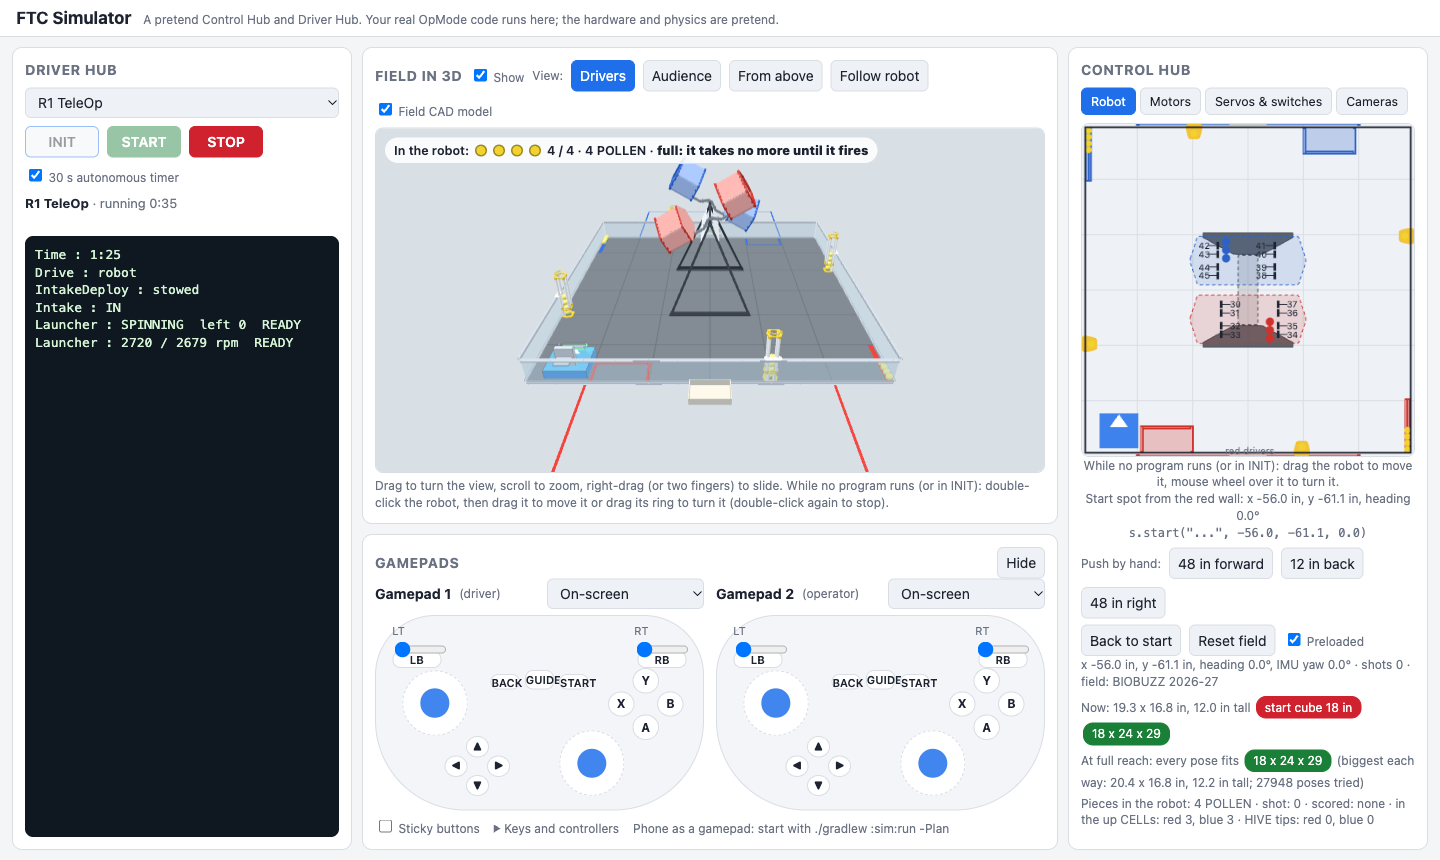
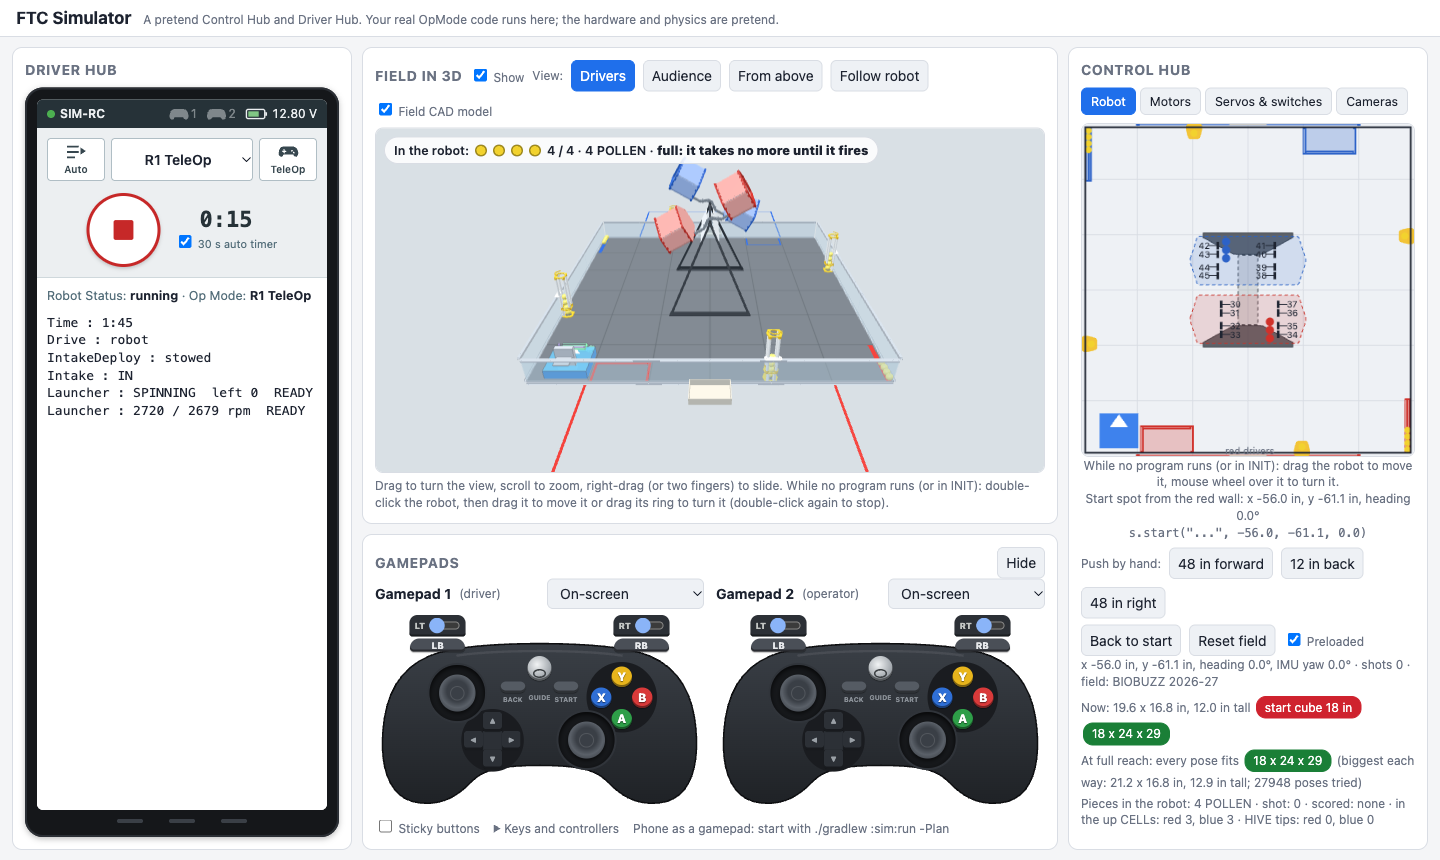
Simulator page: Driver Hub like the Driver Station app, gamepads like real controllers
- Driver Hub: a handheld frame; top bar with link, gamepad 1/2 lights and robot battery; Auto and
  TeleOp buttons open lists; one big INIT / play / stop button; match time; telemetry below.
- Gamepads: an SVG controller body (Xbox 360 / Logitech layout), coloured A/B/X/Y, D-pad cross,
  bumpers, triggers, stick wells; labels scale with the pad (container units).
- No sideways scroll on a phone.
- README picture updated.

Changed region(s): [[0.0, 0.0907, 0.7188, 0.9977], [0.7812, 0.907, 0.9375, 0.9372]]

diff --git a/sim/src/test/resources/sim/index.html b/sim/src/test/resources/sim/index.html
@@ -22,7 +22,8 @@
   header h1 { font-size: 17px; margin: 0; }
   header .note { color: var(--muted); font-size: 12px; }
   /* Narrow screens: one column you scroll. */
-  main { display: grid; grid-template-columns: 1fr; gap: 10px; padding: 10px 12px; }
+  main { display: grid; grid-template-columns: minmax(0, 1fr); gap: 10px; padding: 10px 12px; }
+  main > section { min-width: 0; }
   /* A laptop or bigger: everything on one screen, no page scroll. The 3D field in the middle, the gamepads under
      it, the Driver Hub on the left, the Control Hub (panels shown or hidden by its buttons) on the right. */
   @media (min-width: 1100px) and (min-height: 640px) {
@@ -30,7 +31,8 @@
     body:not(.phone) main { flex: 1; min-height: 0; grid-template-columns: minmax(280px, 340px) minmax(420px, 1fr) minmax(290px, 360px);
       grid-template-rows: minmax(0, 1fr) auto; grid-template-areas: "ds view hub" "ds pads hub"; }
     body:not(.phone) #dsSection { grid-area: ds; display: flex; flex-direction: column; min-height: 0; }
-    body:not(.phone) #screen { flex: 1; height: auto; min-height: 120px; }
+    body:not(.phone) .dh, body:not(.phone) .dh-screen, body:not(.phone) .dh-tele { flex: 1; min-height: 0; display: flex; flex-direction: column; }
+    body:not(.phone) #screen { flex: 1; height: auto; min-height: 90px; }
     body:not(.phone) #view3dSection { grid-area: view; display: flex; flex-direction: column; min-height: 0; }
     body:not(.phone) #stage { flex: 1; height: auto; min-height: 200px; }
     body:not(.phone) #padsSection { grid-area: pads; }
@@ -50,32 +52,81 @@
   button { cursor: pointer; }
   button:disabled { opacity: .45; cursor: default; }
   .row { display: flex; gap: 8px; align-items: center; flex-wrap: wrap; }
-  .ds-buttons button { min-width: 74px; font-weight: 600; }
-  #initBtn { border-color: var(--accent); }
-  #startBtn { background: var(--go); color: #fff; border-color: var(--go); }
-  #stopBtn { background: var(--stop); color: #fff; border-color: var(--stop); }
-  #opmode { flex: 1; min-width: 0; }
-  .status { margin: 8px 0; color: var(--muted); font-size: 13px; }
-  .status b { color: var(--ink); }
-  /* The Driver Hub telemetry: about 52 characters wide, like the real screen. */
-  #screen { background: var(--screen); color: var(--screen-ink); font: 13px/1.35 ui-monospace, "SF Mono", Menlo, Consolas, monospace;
-            border-radius: 8px; padding: 10px; height: 380px; overflow: auto; white-space: pre-wrap; word-break: break-word; width: 100%; max-width: 54ch; }
+  /* The Driver Hub: a black handheld with the Driver Station app on its screen. */
+  .dh { background: #15171a; border-radius: 18px; padding: 12px 12px 14px; box-shadow: inset 0 0 0 2px #2b2f35, 0 2px 6px rgba(0,0,0,.25); }
+  .dh-screen { background: #eceff1; color: #1d2330; border-radius: 6px; overflow: hidden; display: flex; flex-direction: column; }
+  .dh-top { display: flex; align-items: center; gap: 10px; background: #263238; color: #eceff1; padding: 6px 10px; font-size: 12px; }
+  .dh-top .net { flex: 1; min-width: 0; white-space: nowrap; overflow: hidden; text-overflow: ellipsis; }
+  .dh-top .net b { font-weight: 600; }
+  .dh-dot { display: inline-block; width: 8px; height: 8px; border-radius: 50%; background: #9e9e9e; margin-right: 5px; vertical-align: 0; }
+  .dh-dot.ok { background: #4caf50; }
+  .dh-batt { display: inline-flex; align-items: center; gap: 4px; font-variant-numeric: tabular-nums; }
+  .dh-batt svg { width: 22px; height: 11px; }
+  .dh-user { display: inline-flex; align-items: center; gap: 2px; opacity: .45; }
+  .dh-user.on { opacity: 1; color: #81c784; }
+  .dh-user svg { width: 20px; height: 13px; }
+  .dh-op { display: flex; align-items: stretch; gap: 6px; padding: 10px 10px 6px; position: relative; }
+  .dh-kind { display: flex; flex-direction: column; align-items: center; justify-content: center; gap: 1px; width: 58px; flex: none;
+    background: #fff; color: #37474f; border: 1px solid #b0bec5; border-radius: 4px; font-size: 10px; font-weight: 600; padding: 4px 2px; }
+  .dh-kind svg { width: 22px; height: 18px; }
+  .dh-kind:hover { background: #e3f2fd; }
+  #opmode { flex: 1; min-width: 0; background: #fff; color: #1d2330; border: 1px solid #b0bec5; border-radius: 4px; font-weight: 600; text-align: center; }
+  .dh-menu { position: absolute; z-index: 5; top: 100%; left: 10px; right: 10px; background: #fff; color: #1d2330; border: 1px solid #90a4ae;
+    border-radius: 4px; box-shadow: 0 6px 18px rgba(0,0,0,.25); max-height: 260px; overflow: auto; }
+  .dh-menu h4 { margin: 0; padding: 6px 10px; background: #263238; color: #eceff1; font-size: 12px; }
+  .dh-menu button { display: block; width: 100%; text-align: left; border: 0; border-bottom: 1px solid #eceff1; border-radius: 0; background: #fff; color: #1d2330; padding: 8px 10px; }
+  .dh-menu button:hover, .dh-menu button:focus-visible { background: #e3f2fd; }
+  .dh-menu .muted { padding: 8px 10px; }
+  .dh-run { display: flex; align-items: center; justify-content: center; gap: 14px; padding: 6px 10px 10px; }
+  .dh-big { width: 74px; height: 74px; border-radius: 50%; border: 3px solid #455a64; background: #fff; color: #263238; display: grid; place-items: center;
+    font-weight: 800; font-size: 17px; letter-spacing: .04em; padding: 0; box-shadow: 0 2px 4px rgba(0,0,0,.2); }
+  .dh-big svg { width: 34px; height: 34px; }
+  #startBtn { border-color: #2e7d32; color: #2e7d32; }
+  #stopBtn { border-color: #c62828; color: #c62828; }
+  .dh-big.small { width: 46px; height: 46px; border-width: 2px; font-size: 12px; }
+  .dh-big.small svg { width: 20px; height: 20px; }
+  .dh-big:hover { filter: brightness(.96); }
+  .dh-big[hidden] { display: none; }
+  .dh-timer { display: flex; flex-direction: column; align-items: center; gap: 2px; font-size: 11px; color: #546e7a; }
+  .dh-timer .t { font: 700 22px/1 ui-monospace, "SF Mono", Menlo, Consolas, monospace; color: #263238; font-variant-numeric: tabular-nums; }
+  .dh-tele { background: #fff; border-top: 1px solid #cfd8dc; padding: 8px 10px; }
+  .status { margin: 0 0 4px; color: #546e7a; font-size: 12.5px; }
+  .status b { color: #1d2330; }
+  /* The telemetry: about 52 characters wide, like the real screen. */
+  #screen { background: #fff; color: #1d2330; font: 13px/1.35 ui-monospace, "SF Mono", Menlo, Consolas, monospace;
+            padding: 2px 0; height: 320px; overflow: auto; white-space: pre-wrap; word-break: break-word; width: 100%; max-width: 54ch; }
+  .dh-foot { display: flex; justify-content: center; gap: 26px; padding-top: 9px; }
+  .dh-foot i { width: 26px; height: 4px; border-radius: 2px; background: #3a3f46; }
   #error { display: none; margin-top: 8px; padding: 8px; border-radius: 6px; background: color-mix(in srgb, var(--stop) 15%, transparent);
            color: var(--stop); font: 12px/1.35 ui-monospace, Menlo, monospace; white-space: pre-wrap; }
   .pad { margin-bottom: 14px; }
   .pad .src { margin-left: auto; }
+  /* The on-screen gamepads: drawn like a real controller (Xbox 360 / Logitech layout, the buttons the SDK names). */
   .gp { position: relative; width: 100%; max-width: 420px; aspect-ratio: 420 / 250; margin: 6px auto 0; user-select: none; touch-action: none;
-        background: color-mix(in srgb, var(--btn) 70%, transparent); border: 1px solid var(--line); border-radius: 60px 60px 90px 90px; }
+        container-type: inline-size; }
+  .gp > svg.body { position: absolute; inset: 0; width: 100%; height: 100%; }
   .gp.off { opacity: .35; pointer-events: none; }
-  .b { position: absolute; display: grid; place-items: center; border: 1px solid var(--line); background: var(--panel); color: var(--ink);
-       font-size: 12px; font-weight: 700; border-radius: 50%; cursor: pointer; }
-  .b.on { background: var(--btn-down); color: var(--btn-ink-down); border-color: var(--btn-down); }
-  .b.wide { border-radius: 8px; font-size: 11px; font-weight: 600; }
-  .stick { position: absolute; width: 20%; aspect-ratio: 1; border-radius: 50%; border: 1px dashed var(--line); background: var(--panel); }
-  .knob { position: absolute; width: 46%; height: 46%; left: 27%; top: 27%; border-radius: 50%; background: var(--accent); opacity: .85; cursor: grab; }
-  .trig { position: absolute; width: 16%; top: 2%; }
-  .trig input { width: 100%; }
-  .trig span { font-size: 11px; color: var(--muted); }
+  .b { position: absolute; display: grid; place-items: center; border: 0; background: #3b4047; color: #e8eaed;
+       font-size: 3.2cqw; font-weight: 800; border-radius: 50%; cursor: pointer; line-height: 1; overflow: hidden;
+       box-shadow: inset 0 -2px 0 rgba(0,0,0,.45), 0 1px 1px rgba(0,0,0,.4); }
+  .b.on { filter: brightness(1.35); box-shadow: inset 0 2px 3px rgba(0,0,0,.5), 0 0 0 2px #fff; }
+  .b.face { color: #fff; font-size: 3.6cqw; text-shadow: 0 1px 1px rgba(0,0,0,.5); }
+  .b.k-a { background: #2e9e48; } .b.k-b { background: #d93a3a; } .b.k-x { background: #2f6fd6; } .b.k-y { background: #e8b51c; }
+  .b.dpad { border-radius: 3px; background: #2c3036; font-size: 2.4cqw; color: #9aa0a6; }
+  .b.bumper { border-radius: 3cqw 3cqw 1.2cqw 1.2cqw; background: #4a4f57; font-size: 2.8cqw; }
+  .b.small { border-radius: 2cqw; background: #555b63; font-size: 0; }
+  .b.guide { background: radial-gradient(circle at 40% 35%, #f1f3f4, #9aa0a6 70%); font-size: 0; }
+  .b.guide::after { content: ""; width: 42%; height: 42%; border-radius: 50%; border: .6cqw solid #3c4043; }
+  .stick { position: absolute; width: 17%; aspect-ratio: 1; border-radius: 50%; background: #16181b;
+           box-shadow: inset 0 2px 5px rgba(0,0,0,.8), 0 0 0 2px #30343a; }
+  .knob { position: absolute; width: 66%; height: 66%; left: 17%; top: 17%; border-radius: 50%; cursor: grab;
+          background: radial-gradient(circle at 50% 45%, #3a3f46 0 38%, #5a6068 60%, #2c3036 100%);
+          box-shadow: 0 2px 4px rgba(0,0,0,.6); }
+  .knob::after { content: ""; position: absolute; inset: 30%; border-radius: 50%; border: 1px solid rgba(255,255,255,.12); }
+  .trig { position: absolute; width: 17%; top: 0; height: 11%; display: flex; align-items: center; gap: 1.2cqw; background: #2c3036;
+          border-radius: 2.4cqw 2.4cqw .8cqw .8cqw; padding: 0 1.6cqw; box-shadow: inset 0 -2px 0 rgba(0,0,0,.4); }
+  .trig input { flex: 1; min-width: 0; height: 60%; margin: 0; accent-color: #8ab4f8; }
+  .trig span { font-size: 2.6cqw; font-weight: 800; color: #c4c7c5; }
   .keys { font-size: 12px; color: var(--muted); margin-top: 6px; }
   .keys code { background: var(--btn); padding: 0 4px; border-radius: 4px; }
   table { width: 100%; border-collapse: collapse; font-size: 12.5px; }
@@ -131,14 +182,35 @@
 <main>
   <section id="dsSection">
     <h2>Driver Hub</h2>
-    <div class="row"><select id="opmode" aria-label="OpMode"></select></div>
-    <div class="row ds-buttons" style="margin-top:8px">
-      <button id="initBtn">INIT</button><button id="startBtn">START</button><button id="stopBtn">STOP</button>
-      <label class="muted"><input type="checkbox" id="autoTimer" checked> 30 s autonomous timer</label>
+    <div class="dh">
+    <div class="dh-screen">
+      <div class="dh-top">
+        <span class="net" title="Network: the pretend Robot Controller"><span class="dh-dot" id="dhLink"></span><b>SIM-RC</b></span>
+        <span class="dh-user" id="dhUser1" title="Gamepad 1 (lit while it is used)"><svg viewBox="0 0 24 16" aria-hidden="true"><path fill="currentColor" d="M6 2h12c3 0 5 3 5.6 7.5.4 3-1 5.5-3.2 5.5-1.6 0-2.4-1.4-3.4-3H7c-1 1.6-1.8 3-3.4 3C1.4 15 0 12.5.4 9.5 1 5 3 2 6 2z"/></svg>1</span>
+        <span class="dh-user" id="dhUser2" title="Gamepad 2 (lit while it is used)"><svg viewBox="0 0 24 16" aria-hidden="true"><path fill="currentColor" d="M6 2h12c3 0 5 3 5.6 7.5.4 3-1 5.5-3.2 5.5-1.6 0-2.4-1.4-3.4-3H7c-1 1.6-1.8 3-3.4 3C1.4 15 0 12.5.4 9.5 1 5 3 2 6 2z"/></svg>2</span>
+        <span class="dh-batt" title="Robot battery"><svg viewBox="0 0 24 12" aria-hidden="true"><rect x="1" y="1" width="20" height="10" rx="2" fill="none" stroke="currentColor" stroke-width="1.5"/><rect x="21.5" y="4" width="2" height="4" rx=".5" fill="currentColor"/><rect id="dhBattFill" x="3" y="3" width="16" height="6" rx="1" fill="#81c784"/></svg><span id="dhBatt">--</span></span>
+      </div>
+      <div class="dh-op">
+        <button class="dh-kind" data-kind="Autonomous" aria-haspopup="true" title="Choose an autonomous"><svg viewBox="0 0 24 20" aria-hidden="true"><path fill="currentColor" d="M2 3h13v2H2zm0 6h13v2H2zm0 6h9v2H2zm15-2 6-4-6-4z"/></svg>Auto</button>
+        <select id="opmode" aria-label="OpMode"></select>
+        <button class="dh-kind" data-kind="TeleOp" aria-haspopup="true" title="Choose a TeleOp"><svg viewBox="0 0 24 20" aria-hidden="true"><path fill="currentColor" d="M6 4h12c3 0 4.8 2.6 5.4 6.5.3 2.6-.9 4.8-2.8 4.8-1.4 0-2.1-1.2-3-2.6H7.4c-.9 1.4-1.6 2.6-3 2.6C2.5 15.3 1.3 13.1 1.6 10.5 2.2 6.6 4 4 6 4zm1 3v1.5H5.5V10H7v1.5h1.5V10H10V8.5H8.5V7zm9.5.5a1 1 0 1 0 0 2 1 1 0 0 0 0-2zm2 2a1 1 0 1 0 0 2 1 1 0 0 0 0-2z"/></svg>TeleOp</button>
+        <div class="dh-menu" id="dhMenu" hidden></div>
+      </div>
+      <div class="dh-run">
+        <button id="initBtn" class="dh-big" title="INIT the chosen OpMode">INIT</button>
+        <button id="startBtn" class="dh-big" title="START" aria-label="START" hidden><svg viewBox="0 0 24 24" aria-hidden="true"><path fill="currentColor" d="M7 4v16l13-8z"/></svg></button>
+        <button id="stopBtn" class="dh-big" title="STOP" aria-label="STOP" hidden><svg viewBox="0 0 24 24" aria-hidden="true"><rect x="5" y="5" width="14" height="14" rx="1.5" fill="currentColor"/></svg></button>
+        <div class="dh-timer"><span class="t" id="dhTime">0:00</span>
+          <label><input type="checkbox" id="autoTimer" checked> 30 s auto timer</label></div>
+      </div>
+      <div class="dh-tele">
+        <div class="status" id="status">No OpMode running.</div>
+        <div class="status" id="cmdNote" style="color:var(--stop)"></div>
+        <div id="screen" role="log" aria-label="Driver Hub telemetry"></div>
+      </div>
     </div>
-    <div class="status" id="status">No OpMode running.</div>
-    <div class="status" id="cmdNote" style="color:var(--stop)"></div>
-    <div id="screen" role="log" aria-label="Driver Hub telemetry"></div>
+    <div class="dh-foot" aria-hidden="true"><i></i><i></i><i></i></div>
+    </div>
     <div id="error"></div>
   </section>
 
@@ -261,20 +333,33 @@ if (phonePad) { source[1] = phonePad === "1" ? "screen" : "remote"; source[2] = 
 let sticky = false;
 
 // ---------------------------------------------------------------- on-screen gamepad
-// Positions in % of the gamepad box (420 x 250 drawing units).
+// Positions in % of the gamepad box (420 x 250 drawing units): [key, label, left, top, width, height, kind].
 const LAYOUT = [
-  ["lb", "LB", 5, 18, 15, 9, true], ["rb", "RB", 80, 18, 15, 9, true],
-  ["up", "\u25B2", 27.5, 62, 7, 11], ["left", "\u25C0", 21, 72, 7, 11], ["right", "\u25B6", 34, 72, 7, 11], ["down", "\u25BC", 27.5, 82, 7, 11],
-  ["y", "Y", 78.5, 27, 8, 13], ["x", "X", 71, 39, 8, 13], ["b", "B", 86, 39, 8, 13], ["a", "A", 78.5, 51, 8, 13],
-  ["back", "BACK", 35, 30, 9, 8, true], ["guide", "GUIDE", 45.5, 28, 9, 10, true], ["start", "START", 56, 30, 9, 8, true],
+  ["lb", "LB", 10.7, 12, 16.7, 6.8, "bumper"], ["rb", "RB", 72.6, 12, 16.7, 6.8, "bumper"],
+  ["up", "\u25B2", 32.9, 49.6, 5.7, 9.6, "dpad"], ["left", "\u25C0", 27.1, 59.2, 5.7, 9.6, "dpad"],
+  ["right", "\u25B6", 38.6, 59.2, 5.7, 9.6, "dpad"], ["down", "\u25BC", 32.9, 68.8, 5.7, 9.6, "dpad"],
+  ["y", "Y", 71.9, 26.4, 6.2, 10.4, "face"], ["x", "X", 65.7, 37.2, 6.2, 10.4, "face"],
+  ["b", "B", 78.1, 37.2, 6.2, 10.4, "face"], ["a", "A", 71.9, 48, 6.2, 10.4, "face"],
+  ["back", "BACK", 38.1, 34, 7.6, 5.6, "small"], ["guide", "GUIDE", 46.3, 21, 7.4, 12.4, "guide"], ["start", "START", 54.3, 34, 7.6, 5.6, "small"],
 ];
+// The controller's body (dark plastic, the two grips) and the D-pad's middle, in the same 420 x 250 units.
+const PAD_BODY = '<svg class="body" viewBox="0 0 420 250" preserveAspectRatio="none" aria-hidden="true">' +
+  '<defs><linearGradient id="padShade" x1="0" y1="0" x2="0" y2="1"><stop offset="0" stop-color="#3a3f46"/><stop offset="1" stop-color="#1f2226"/></linearGradient></defs>' +
+  '<path d="M100 44C150 34 270 34 320 44C372 52 400 82 408 132C416 186 406 236 362 240C330 243 312 228 296 212C282 198 262 192 210 192' +
+  'C158 192 138 198 124 212C108 228 90 243 58 240C14 236 4 186 12 132C20 82 48 52 100 44Z" fill="url(#padShade)" stroke="#0e0f11" stroke-width="2"/>' +
+  '<path d="M104 52C150 44 270 44 316 52" fill="none" stroke="rgba(255,255,255,.08)" stroke-width="3"/>' +
+  '<circle cx="150" cy="160" r="40" fill="#1a1c20"/><rect x="138" y="148" width="24" height="24" fill="#2c3036"/>' +
+  '<circle cx="315" cy="105" r="45" fill="#1a1c20"/>' +
+  '<g font-family="system-ui,sans-serif" font-size="8.5" font-weight="700" fill="#8a9097" text-anchor="middle">' +
+  '<text x="176" y="111">BACK</text><text x="244" y="111">START</text><text x="210" y="109">GUIDE</text></g>' +
+  '</svg>';
 // Keep getting this pointer's events even if it slides off the button (fails quietly if it cannot).
 function capture(el, e) { try { el.setPointerCapture(e.pointerId); } catch (err) { /* not a real pointer */ } }
 function buildPad(el, n) {
-  el.innerHTML = "";
-  for (const [key, label, x, y, w, h, wide] of LAYOUT) {
+  el.innerHTML = PAD_BODY;
+  for (const [key, label, x, y, w, h, kind] of LAYOUT) {
     const b = document.createElement("div");
-    b.className = "b" + (wide ? " wide" : "");
+    b.className = "b " + kind + " k-" + key;
     b.textContent = label;
     b.setAttribute("role", "button");
     b.setAttribute("aria-label", "Gamepad " + n + " " + key.toUpperCase());
@@ -293,7 +378,7 @@ function buildPad(el, n) {
     b.addEventListener("pointerup", up); b.addEventListener("pointercancel", up);
     el.appendChild(b);
   }
-  for (const [ax, ay, cx, cy, label] of [["lx","ly",18,45,"L"],["rx","ry",66,76,"R"]]) {
+  for (const [ax, ay, cx, cy, label] of [["lx","ly",25,40,"L"],["rx","ry",64.3,64,"R"]]) {
     const s = document.createElement("div");
     s.className = "stick"; s.title = label + " stick";
     Object.assign(s.style, { left: cx + "%", top: cy + "%", transform: "translate(-50%,-50%)" });
@@ -313,7 +398,7 @@ function buildPad(el, n) {
     s.dataset.ax = ax; s.dataset.ay = ay;
     el.appendChild(s);
   }
-  for (const [key, label, x] of [["lt","LT",5],["rt","RT",79]]) {
+  for (const [key, label, x] of [["lt","LT",10.5],["rt","RT",72.5]]) {
     const t = document.createElement("div"); t.className = "trig";
     t.style.left = x + "%";
     // tabindex -1: a trigger is pressed with the mouse or touch (keyboard users: Z and C).
@@ -335,7 +420,7 @@ function drawPad(el, n) {
   });
   el.querySelectorAll(".stick").forEach(s => {
     const k = s.firstChild;
-    k.style.transform = `translate(${p[s.dataset.ax] * 60}%, ${p[s.dataset.ay] * 60}%)`;
+    k.style.transform = `translate(${p[s.dataset.ax] * 25}%, ${p[s.dataset.ay] * 25}%)`;
   });
   el.querySelectorAll(".trig input").forEach(r => { if (document.activeElement !== r) r.value = p[r.dataset.key]; });
   el.classList.toggle("off", source[n] === "remote");
@@ -450,6 +535,7 @@ async function poll() {
     render(lastState);
   } catch (e) {
     $("#status").textContent = "The simulator is not running. Start it with ./gradlew :sim:run";
+    $("#dhLink").classList.remove("ok");
   }
 }
 setInterval(poll, 100);
@@ -484,13 +570,28 @@ function render(s) {
     window.lastNextCount = s.nextCount;
   }
   const running = s.phase === "INIT" || s.phase === "RUNNING";
-  $("#initBtn").disabled = running && sel.value === s.opmode;
-  $("#startBtn").disabled = s.phase !== "INIT";
-  $("#stopBtn").disabled = !running;
+  // Like the Driver Station app: one big button that is INIT, then START (play), then STOP; in INIT a
+  // small STOP too. A different OpMode chosen while one runs can still be INIT'd (small).
+  const other = running && sel.value !== s.opmode;
+  const big = !running ? "initBtn" : s.phase === "INIT" ? "startBtn" : "stopBtn";
+  const shown = { initBtn: !running || other, startBtn: s.phase === "INIT", stopBtn: running };
+  for (const id of ["initBtn", "startBtn", "stopBtn"]) {
+    const b = $("#" + id);
+    b.hidden = !shown[id];
+    b.classList.toggle("small", id !== big);
+  }
   const t = Math.floor(s.runSeconds);
+  $("#dhTime").textContent = running && s.phase === "RUNNING" ? Math.floor(t / 60) + ":" + String(t % 60).padStart(2, "0") : "0:00";
   $("#status").innerHTML = s.opmode
-    ? `<b>${escapeHtml(s.opmode)}</b> &middot; ${s.phase === "RUNNING" ? "running " + Math.floor(t / 60) + ":" + String(t % 60).padStart(2, "0") : s.phase.toLowerCase()}`
-    : "Choose an OpMode, then INIT.";
+    ? `Robot Status: <b>${s.phase === "RUNNING" ? "running" : s.phase.toLowerCase()}</b> &middot; Op Mode: <b>${escapeHtml(s.opmode)}</b>`
+    : "Robot Status: <b>stopped</b> &middot; choose an OpMode, then INIT.";
+  $("#dhLink").classList.add("ok");
+  $("#dhBatt").textContent = s.battery.toFixed(2) + " V";
+  const full = Math.max(0, Math.min(1, (s.battery - 11) / 2.5));
+  const fill = $("#dhBattFill");
+  fill.setAttribute("width", (16 * full).toFixed(1));
+  fill.setAttribute("fill", s.battery < 11.8 ? "#e57373" : s.battery < 12.3 ? "#ffd54f" : "#81c784");
+  for (const n of [1, 2]) $("#dhUser" + n).classList.toggle("on", padActive(n));
   const text = s.screen.join("\n");
   if ($("#screen").textContent !== text) $("#screen").textContent = text;   // only when it changed
   const err = $("#error");
@@ -510,6 +611,26 @@ function render(s) {
     : "Phone as a gamepad: start with ./gradlew :sim:run -Plan";
 }
 $("#initBtn").onclick = () => command({ action: "init", opmode: $("#opmode").value });
+// The Auto and TeleOp buttons open a list of that kind, like the Driver Station app.
+function openKind(kind, from) {
+  const menu = $("#dhMenu");
+  if (!menu.hidden && menu.dataset.kind === kind) { menu.hidden = true; return; }
+  const list = lastState ? lastState.opmodes.filter(o => o.kind === kind) : [];
+  menu.dataset.kind = kind;
+  menu.innerHTML = `<h4>${kind}</h4>` + (list.length ? list.map(o => `<button data-name="${escapeHtml(o.name)}">${escapeHtml((o.group ? o.group + ": " : "") + o.name)}${o.disabled ? ' <span class="muted">(hidden on robot)</span>' : ""}</button>`).join("")
+    : '<div class="muted">None in this project.</div>');
+  menu.hidden = false;
+  const first = menu.querySelector("button"); if (first) first.focus();
+  menu.querySelectorAll("button").forEach(b => b.onclick = () => { $("#opmode").value = b.dataset.name; menu.hidden = true; from.focus(); });
+}
+document.querySelectorAll(".dh-kind").forEach(b => b.onclick = () => openKind(b.dataset.kind, b));
+document.addEventListener("pointerdown", e => { if (!e.target.closest(".dh-op")) $("#dhMenu").hidden = true; });
+document.addEventListener("keydown", e => { if (e.key === "Escape") $("#dhMenu").hidden = true; });
+// A gamepad counts as used (its icon lit) while any button or stick is off rest.
+function padActive(n) {
+  const p = merged(n);
+  return Object.keys(p).some(k => Math.abs(p[k]) > 0.05);
+}
 $("#startBtn").onclick = () => command({ action: "start" });
 $("#stopBtn").onclick = () => command({ action: "stop" });
 $("#autoTimer").onchange = e => command({ action: "autoTimer", on: e.target.checked ? 1 : 0 });

diff --git a/docs/guides/simulator.md b/docs/guides/simulator.md
@@ -26,11 +26,14 @@ building the library needs: Java and the Android SDK, which Android Studio insta
 "SDK location not found", see [Contributing](../contributing.md)). Windows, macOS and Linux; a
 Chromebook with Linux turned on.
 
-The page fits one laptop screen: the Driver Hub on the left (OpMode, INIT/START/STOP, telemetry), the field
+The page fits one laptop screen: the Driver Hub on the left, drawn like the Driver Station app on a Driver Hub
+(the robot battery, gamepad 1 and 2 lit while used; the Auto and TeleOp buttons list the OpModes of that kind;
+one big button that is INIT, then START (play), then STOP; the match time; the telemetry), the field
 in 3D in the middle with the gamepads under it, and the Control Hub on the right in panels (Robot: the field
 from above, pushing the robot, size and pieces, battery; Motors; Servos & switches; Cameras). Each of its
 buttons shows or hides a panel; the panels shown stack in that order, and this browser remembers the
-choice for the next run. "Hide" on the
+choice for the next run. The on-screen gamepads look like a real controller (Xbox 360 / Logitech layout, the
+button names the SDK uses); a pressed button gets a white ring. "Hide" on the
 gamepads gives the 3D field more room when you drive with the keyboard, a real controller or a phone. On a
 narrow screen the parts stack and the page scrolls.
 

diff --git a/CHANGELOG.md b/CHANGELOG.md
@@ -22,6 +22,8 @@ What changed in each version. Newest first. How to update: [Keep it up to date](
   in); rollers and spinners drag the pieces they touch at their surface speed; the robot rolls over a
   FLOWER's thin floor plate.
 - README: a simulator section with a picture.
+- Simulator page: the Driver Hub looks like the Driver Station app (Auto/TeleOp lists, one INIT/play/stop
+  button, battery, gamepad lights) and the on-screen gamepads look like real controllers.
 - The GUIDE button map leaves out the free buttons (INIT still lists them).
 - `./gradlew :sim:run -Pport=8781`: another port, to run two simulators at once.
 - **GUIDE shows the button map** in a Controls.java TeleOp (a tap; tap again to close); holding GUIDE
